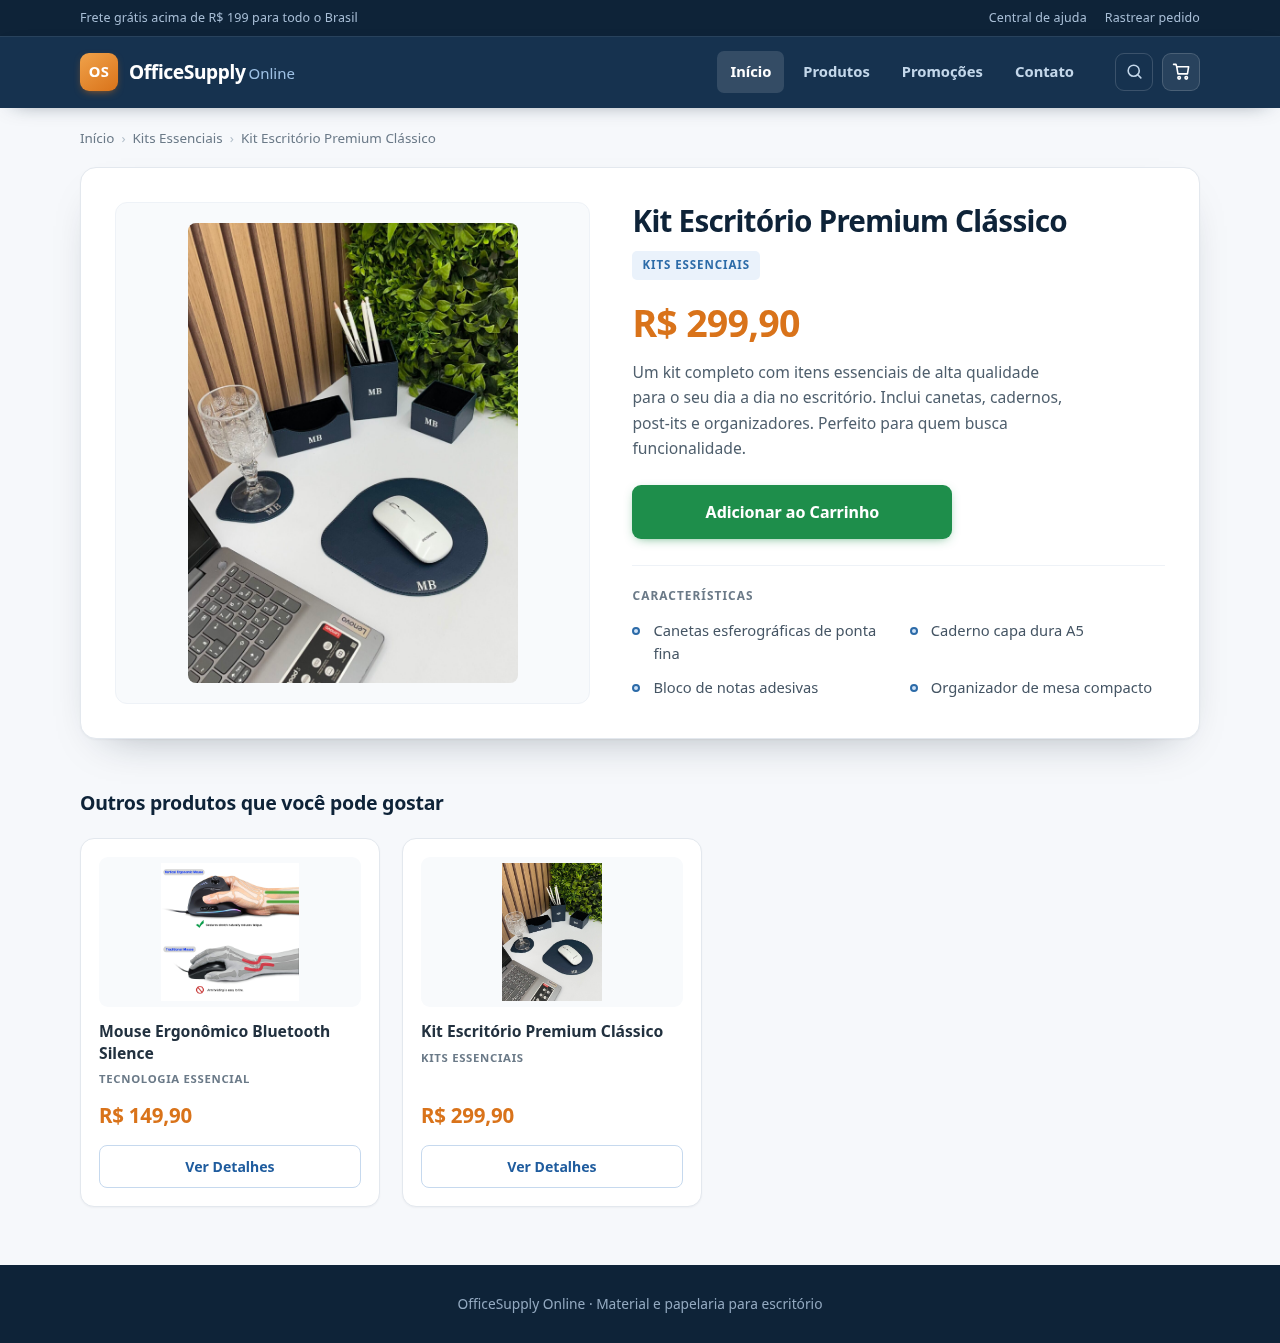
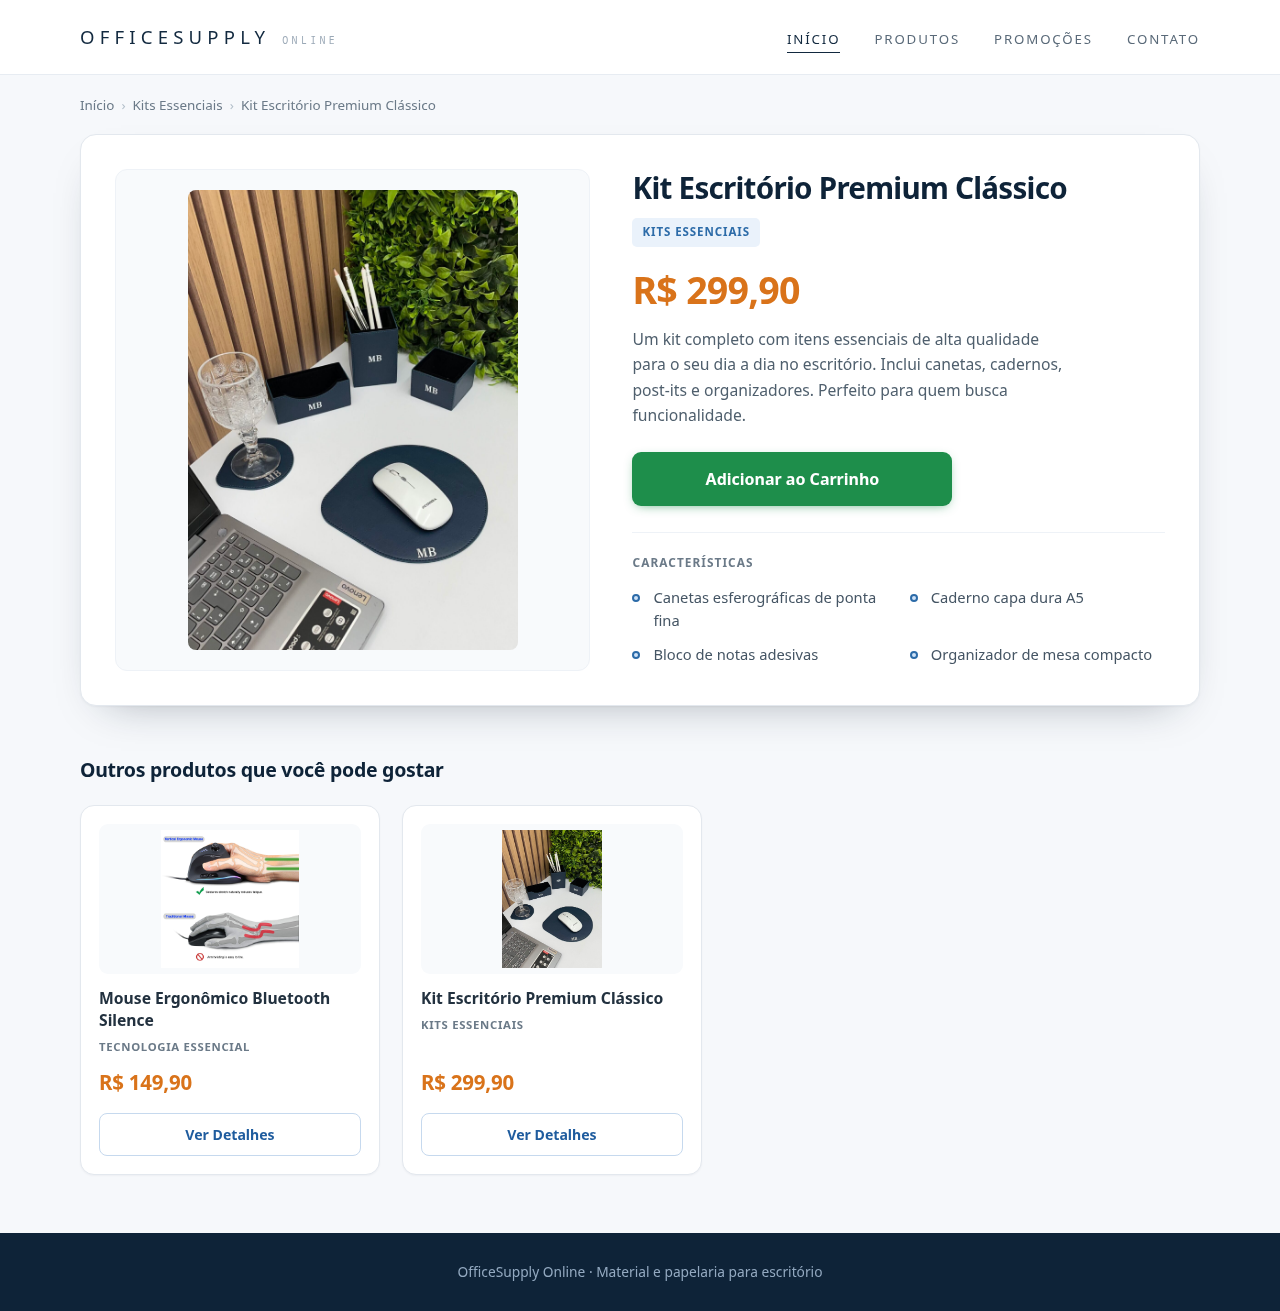
Cabecalho minimalista: tipografia fina, sem icones

diff --git a/versao-controle/style-control.css b/versao-controle/style-control.css
@@ -11,35 +11,29 @@ img{max-width:100%;display:block}
 a{color:inherit}
 .container{width:min(1120px,92%);margin:0 auto}
 
-/* Faixa superior */
-.topbar{background:var(--navy-esc);color:#a8bed6;font-size:.78rem}
-.topbar-inner{display:flex;justify-content:space-between;align-items:center;
-  flex-wrap:wrap;gap:8px;padding:8px 0;letter-spacing:.01em}
-.topbar-links{display:flex;gap:18px}
-.topbar-links a{text-decoration:none;transition:.15s}
-.topbar-links a:hover{color:#fff}
-
 /* Header */
-header{background:var(--navy);box-shadow:0 1px 0 rgba(255,255,255,.08) inset,
-  0 6px 22px -14px rgba(14,35,56,.7);position:relative;z-index:5}
-.header-inner{display:flex;align-items:center;gap:28px;flex-wrap:wrap;padding:15px 0}
-.logo{display:flex;align-items:center;gap:11px;text-decoration:none;margin-right:auto}
-.logo-mark{display:grid;place-items:center;width:38px;height:38px;border-radius:9px;
-  background:linear-gradient(145deg,#f0a24a,#d9731a);color:#fff;font-weight:800;
-  font-size:.92rem;letter-spacing:.02em;box-shadow:0 3px 10px -4px rgba(217,115,26,.9)}
-.logo-text{color:#fff;font-size:1.2rem;font-weight:800;letter-spacing:-.02em;line-height:1}
-.logo-text em{font-style:normal;font-weight:400;color:#9dc0e4;font-size:.78em;
-  margin-left:3px;letter-spacing:0}
-header nav ul{list-style:none;margin:0;padding:0;display:flex;gap:6px;flex-wrap:wrap}
-header nav a{color:#c3d7ea;text-decoration:none;font-size:.92rem;font-weight:600;
-  padding:9px 13px;border-radius:7px;display:block;transition:.16s}
-header nav a:hover{color:#fff;background:rgba(255,255,255,.09)}
-header nav a.ativo{color:#fff;background:rgba(255,255,255,.13)}
-.header-acoes{display:flex;gap:9px;align-items:center}
-.icone{display:grid;place-items:center;width:38px;height:38px;border-radius:9px;color:#c3d7ea;
-  text-decoration:none;border:1px solid rgba(255,255,255,.16);transition:.16s}
-.icone:hover{color:#fff;background:rgba(255,255,255,.12);border-color:rgba(255,255,255,.3)}
-.icone.carrinho{color:#fff;background:rgba(255,255,255,.08)}
+header{background:#fff;border-bottom:1px solid #e7ecf2}
+.header-inner{display:flex;align-items:center;justify-content:space-between;
+  gap:30px;flex-wrap:wrap;padding:26px 0 22px}
+
+.logo{display:flex;align-items:baseline;gap:10px;text-decoration:none}
+.logo-text{font-family:-apple-system,BlinkMacSystemFont,"Segoe UI",Helvetica,Arial,sans-serif;
+  font-size:1.16rem;font-weight:200;letter-spacing:.28em;text-transform:uppercase;
+  color:#12293f;line-height:1;padding-right:2px}
+.logo-sub{font-family:ui-monospace,SFMono-Regular,Menlo,Consolas,monospace;
+  font-size:.62rem;font-weight:400;letter-spacing:.34em;text-transform:uppercase;
+  color:#9aa8b6;padding-bottom:1px}
+
+header nav ul{list-style:none;margin:0;padding:0;display:flex;gap:34px;flex-wrap:wrap}
+header nav a{position:relative;color:#5a6a79;text-decoration:none;font-size:.83rem;
+  font-weight:300;letter-spacing:.14em;text-transform:uppercase;padding:5px 0;
+  transition:color .2s}
+header nav a::after{content:"";position:absolute;left:0;bottom:0;width:0;height:1px;
+  background:#12293f;transition:width .22s ease}
+header nav a:hover{color:#12293f}
+header nav a:hover::after{width:100%}
+header nav a.ativo{color:#12293f;font-weight:400}
+header nav a.ativo::after{width:100%}
 
 /* Breadcrumb */
 .breadcrumb{font-size:.84rem;color:var(--cinza);padding:20px 0 0}
@@ -105,13 +99,11 @@ footer p{margin:0}
 
 /* Responsivo */
 @media (max-width:860px){
-  .topbar-links{display:none}
-  .header-inner{gap:14px;padding:12px 0}
-  .logo-mark{width:34px;height:34px;font-size:.85rem}
-  .logo-text{font-size:1.05rem}
-  header nav{order:3;width:100%}
-  header nav ul{gap:4px;flex-wrap:wrap}
-  header nav a{padding:7px 10px;font-size:.86rem}
+  .header-inner{gap:16px;padding:20px 0 16px}
+  .logo-text{font-size:.98rem;letter-spacing:.22em}
+  .logo-sub{font-size:.56rem;letter-spacing:.26em}
+  header nav ul{gap:22px}
+  header nav a{font-size:.74rem;letter-spacing:.1em}
   .product-detail{grid-template-columns:1fr;gap:26px;padding:20px}
   .product-image img{max-height:330px}
   .product-title{font-size:1.45rem}

diff --git a/versao-variante-b/style-variante-b.css b/versao-variante-b/style-variante-b.css
@@ -11,35 +11,29 @@ img{max-width:100%;display:block}
 a{color:inherit}
 .container{width:min(1120px,92%);margin:0 auto}
 
-/* Faixa superior */
-.topbar{background:var(--navy-esc);color:#a8bed6;font-size:.78rem}
-.topbar-inner{display:flex;justify-content:space-between;align-items:center;
-  flex-wrap:wrap;gap:8px;padding:8px 0;letter-spacing:.01em}
-.topbar-links{display:flex;gap:18px}
-.topbar-links a{text-decoration:none;transition:.15s}
-.topbar-links a:hover{color:#fff}
-
 /* Header */
-header{background:var(--navy);box-shadow:0 1px 0 rgba(255,255,255,.08) inset,
-  0 6px 22px -14px rgba(14,35,56,.7);position:relative;z-index:5}
-.header-inner{display:flex;align-items:center;gap:28px;flex-wrap:wrap;padding:15px 0}
-.logo{display:flex;align-items:center;gap:11px;text-decoration:none;margin-right:auto}
-.logo-mark{display:grid;place-items:center;width:38px;height:38px;border-radius:9px;
-  background:linear-gradient(145deg,#f0a24a,#d9731a);color:#fff;font-weight:800;
-  font-size:.92rem;letter-spacing:.02em;box-shadow:0 3px 10px -4px rgba(217,115,26,.9)}
-.logo-text{color:#fff;font-size:1.2rem;font-weight:800;letter-spacing:-.02em;line-height:1}
-.logo-text em{font-style:normal;font-weight:400;color:#9dc0e4;font-size:.78em;
-  margin-left:3px;letter-spacing:0}
-header nav ul{list-style:none;margin:0;padding:0;display:flex;gap:6px;flex-wrap:wrap}
-header nav a{color:#c3d7ea;text-decoration:none;font-size:.92rem;font-weight:600;
-  padding:9px 13px;border-radius:7px;display:block;transition:.16s}
-header nav a:hover{color:#fff;background:rgba(255,255,255,.09)}
-header nav a.ativo{color:#fff;background:rgba(255,255,255,.13)}
-.header-acoes{display:flex;gap:9px;align-items:center}
-.icone{display:grid;place-items:center;width:38px;height:38px;border-radius:9px;color:#c3d7ea;
-  text-decoration:none;border:1px solid rgba(255,255,255,.16);transition:.16s}
-.icone:hover{color:#fff;background:rgba(255,255,255,.12);border-color:rgba(255,255,255,.3)}
-.icone.carrinho{color:#fff;background:rgba(255,255,255,.08)}
+header{background:#fff;border-bottom:1px solid #e7ecf2}
+.header-inner{display:flex;align-items:center;justify-content:space-between;
+  gap:30px;flex-wrap:wrap;padding:26px 0 22px}
+
+.logo{display:flex;align-items:baseline;gap:10px;text-decoration:none}
+.logo-text{font-family:-apple-system,BlinkMacSystemFont,"Segoe UI",Helvetica,Arial,sans-serif;
+  font-size:1.16rem;font-weight:200;letter-spacing:.28em;text-transform:uppercase;
+  color:#12293f;line-height:1;padding-right:2px}
+.logo-sub{font-family:ui-monospace,SFMono-Regular,Menlo,Consolas,monospace;
+  font-size:.62rem;font-weight:400;letter-spacing:.34em;text-transform:uppercase;
+  color:#9aa8b6;padding-bottom:1px}
+
+header nav ul{list-style:none;margin:0;padding:0;display:flex;gap:34px;flex-wrap:wrap}
+header nav a{position:relative;color:#5a6a79;text-decoration:none;font-size:.83rem;
+  font-weight:300;letter-spacing:.14em;text-transform:uppercase;padding:5px 0;
+  transition:color .2s}
+header nav a::after{content:"";position:absolute;left:0;bottom:0;width:0;height:1px;
+  background:#12293f;transition:width .22s ease}
+header nav a:hover{color:#12293f}
+header nav a:hover::after{width:100%}
+header nav a.ativo{color:#12293f;font-weight:400}
+header nav a.ativo::after{width:100%}
 
 /* Breadcrumb */
 .breadcrumb{font-size:.84rem;color:var(--cinza);padding:20px 0 0}
@@ -105,13 +99,11 @@ footer p{margin:0}
 
 /* Responsivo */
 @media (max-width:860px){
-  .topbar-links{display:none}
-  .header-inner{gap:14px;padding:12px 0}
-  .logo-mark{width:34px;height:34px;font-size:.85rem}
-  .logo-text{font-size:1.05rem}
-  header nav{order:3;width:100%}
-  header nav ul{gap:4px;flex-wrap:wrap}
-  header nav a{padding:7px 10px;font-size:.86rem}
+  .header-inner{gap:16px;padding:20px 0 16px}
+  .logo-text{font-size:.98rem;letter-spacing:.22em}
+  .logo-sub{font-size:.56rem;letter-spacing:.26em}
+  header nav ul{gap:22px}
+  header nav a{font-size:.74rem;letter-spacing:.1em}
   .product-detail{grid-template-columns:1fr;gap:26px;padding:20px}
   .product-image img{max-height:330px}
   .product-title{font-size:1.45rem}

diff --git a/versao-variante-b/produto-variante-b.html b/versao-variante-b/produto-variante-b.html
@@ -7,18 +7,11 @@
     <link rel="stylesheet" href="style-variante-b.css">
 </head>
 <body>
-    <div class="topbar">
-        <div class="container topbar-inner">
-            <span>Frete grátis acima de R$ 199 para todo o Brasil</span>
-            <span class="topbar-links"><a href="#">Central de ajuda</a><a href="#">Rastrear pedido</a></span>
-        </div>
-    </div>
-
     <header>
         <div class="container header-inner">
             <a class="logo" href="#">
-                <span class="logo-mark">OS</span>
-                <span class="logo-text">OfficeSupply<em>Online</em></span>
+                <span class="logo-text">OfficeSupply</span>
+                <span class="logo-sub">Online</span>
             </a>
             <nav>
                 <ul>
@@ -28,19 +21,6 @@
                     <li><a href="#">Contato</a></li>
                 </ul>
             </nav>
-            <div class="header-acoes">
-                <a class="icone" href="#" aria-label="Buscar">
-                    <svg width="19" height="19" viewBox="0 0 24 24" fill="none" stroke="currentColor"
-                         stroke-width="2" stroke-linecap="round"><circle cx="11" cy="11" r="7"/>
-                         <path d="M20 20l-4.2-4.2"/></svg>
-                </a>
-                <a class="icone carrinho" href="#" aria-label="Carrinho">
-                    <svg width="19" height="19" viewBox="0 0 24 24" fill="none" stroke="currentColor"
-                         stroke-width="2" stroke-linecap="round" stroke-linejoin="round">
-                         <path d="M6 6h15l-1.5 9h-12z"/><circle cx="9" cy="20" r="1.6"/>
-                         <circle cx="18" cy="20" r="1.6"/><path d="M6 6L5 3H2"/></svg>
-                </a>
-            </div>
         </div>
     </header>
 

diff --git a/versao-controle/product-page-control.html b/versao-controle/product-page-control.html
@@ -7,18 +7,11 @@
     <link rel="stylesheet" href="style-control.css">
 </head>
 <body>
-    <div class="topbar">
-        <div class="container topbar-inner">
-            <span>Frete grátis acima de R$ 199 para todo o Brasil</span>
-            <span class="topbar-links"><a href="#">Central de ajuda</a><a href="#">Rastrear pedido</a></span>
-        </div>
-    </div>
-
     <header>
         <div class="container header-inner">
             <a class="logo" href="#">
-                <span class="logo-mark">OS</span>
-                <span class="logo-text">OfficeSupply<em>Online</em></span>
+                <span class="logo-text">OfficeSupply</span>
+                <span class="logo-sub">Online</span>
             </a>
             <nav>
                 <ul>
@@ -28,19 +21,6 @@
                     <li><a href="#">Contato</a></li>
                 </ul>
             </nav>
-            <div class="header-acoes">
-                <a class="icone" href="#" aria-label="Buscar">
-                    <svg width="19" height="19" viewBox="0 0 24 24" fill="none" stroke="currentColor"
-                         stroke-width="2" stroke-linecap="round"><circle cx="11" cy="11" r="7"/>
-                         <path d="M20 20l-4.2-4.2"/></svg>
-                </a>
-                <a class="icone carrinho" href="#" aria-label="Carrinho">
-                    <svg width="19" height="19" viewBox="0 0 24 24" fill="none" stroke="currentColor"
-                         stroke-width="2" stroke-linecap="round" stroke-linejoin="round">
-                         <path d="M6 6h15l-1.5 9h-12z"/><circle cx="9" cy="20" r="1.6"/>
-                         <circle cx="18" cy="20" r="1.6"/><path d="M6 6L5 3H2"/></svg>
-                </a>
-            </div>
         </div>
     </header>
 
